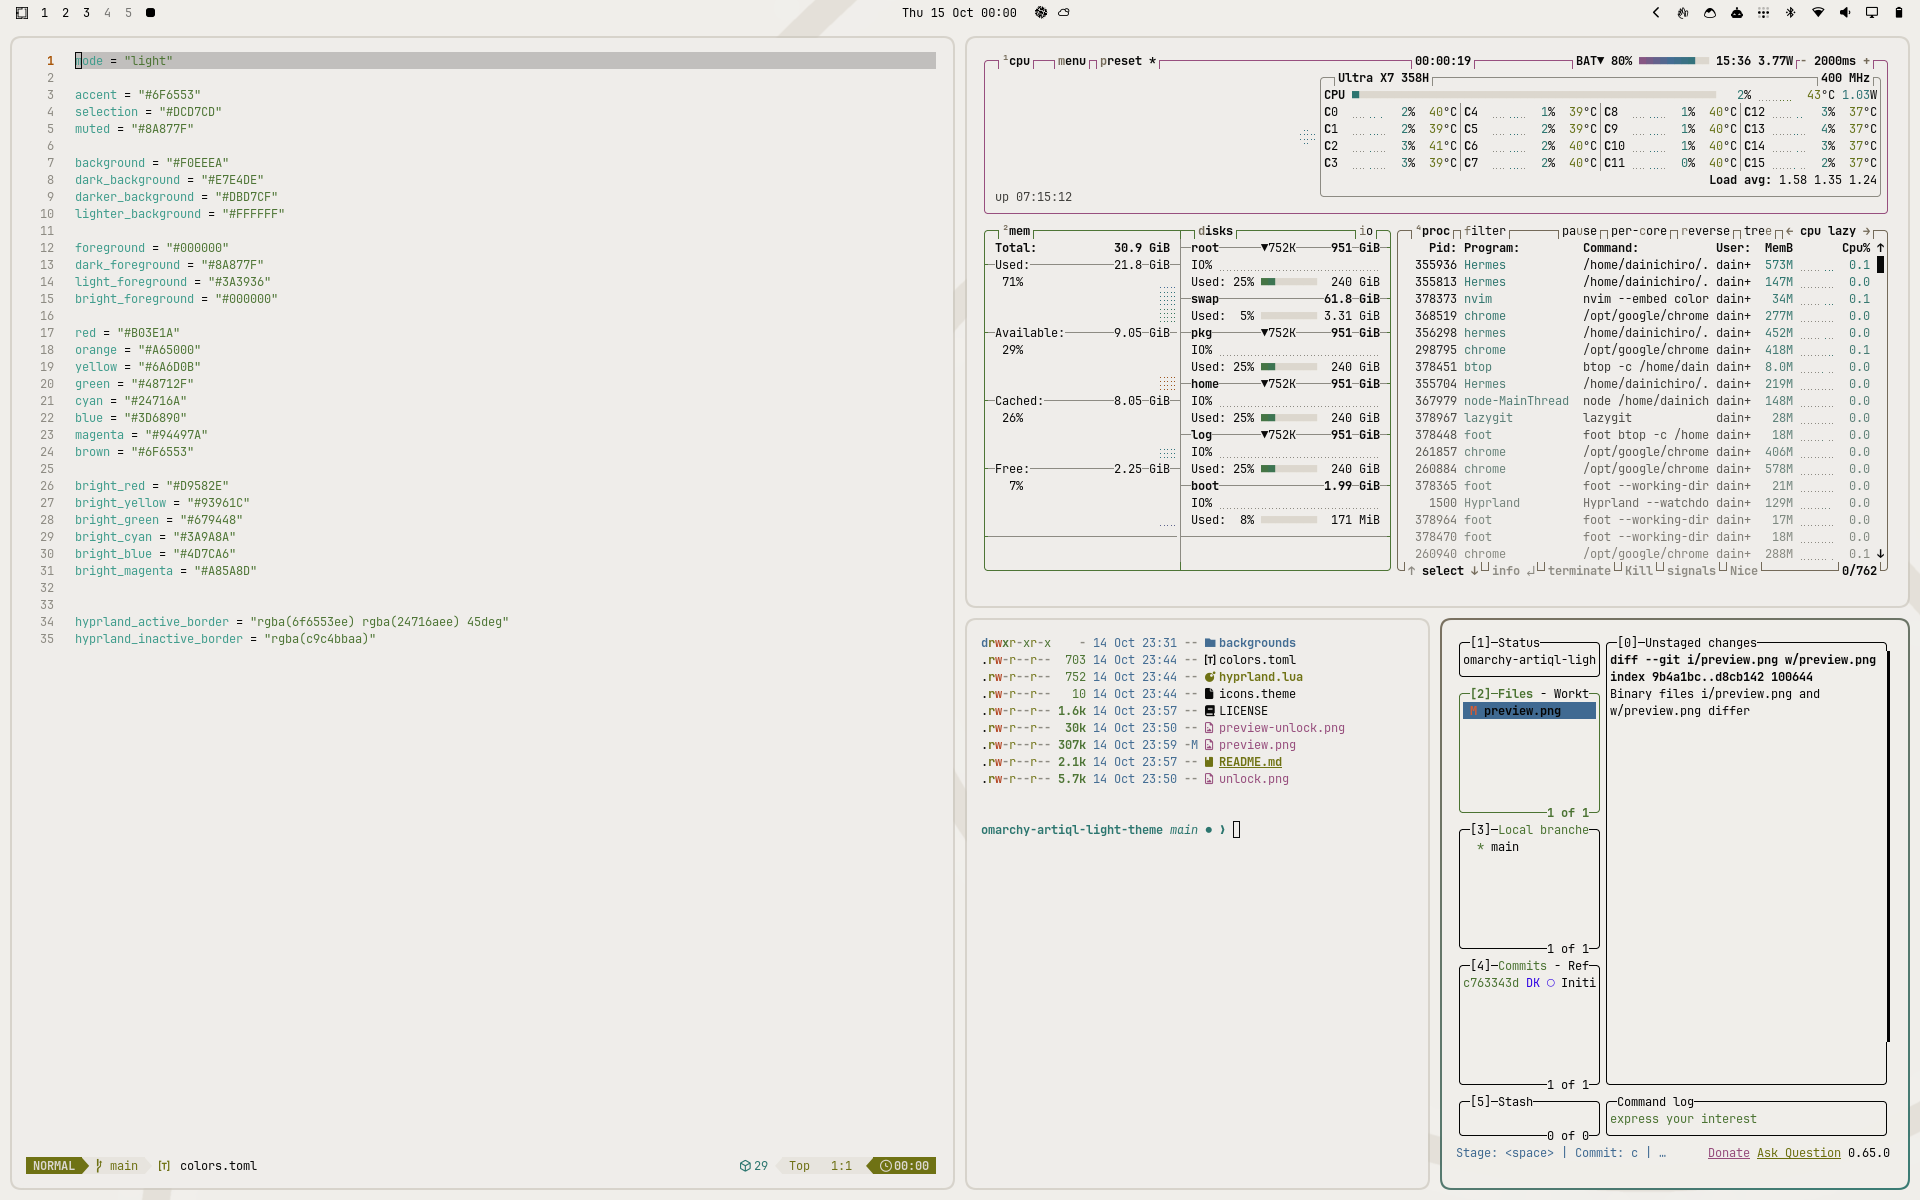
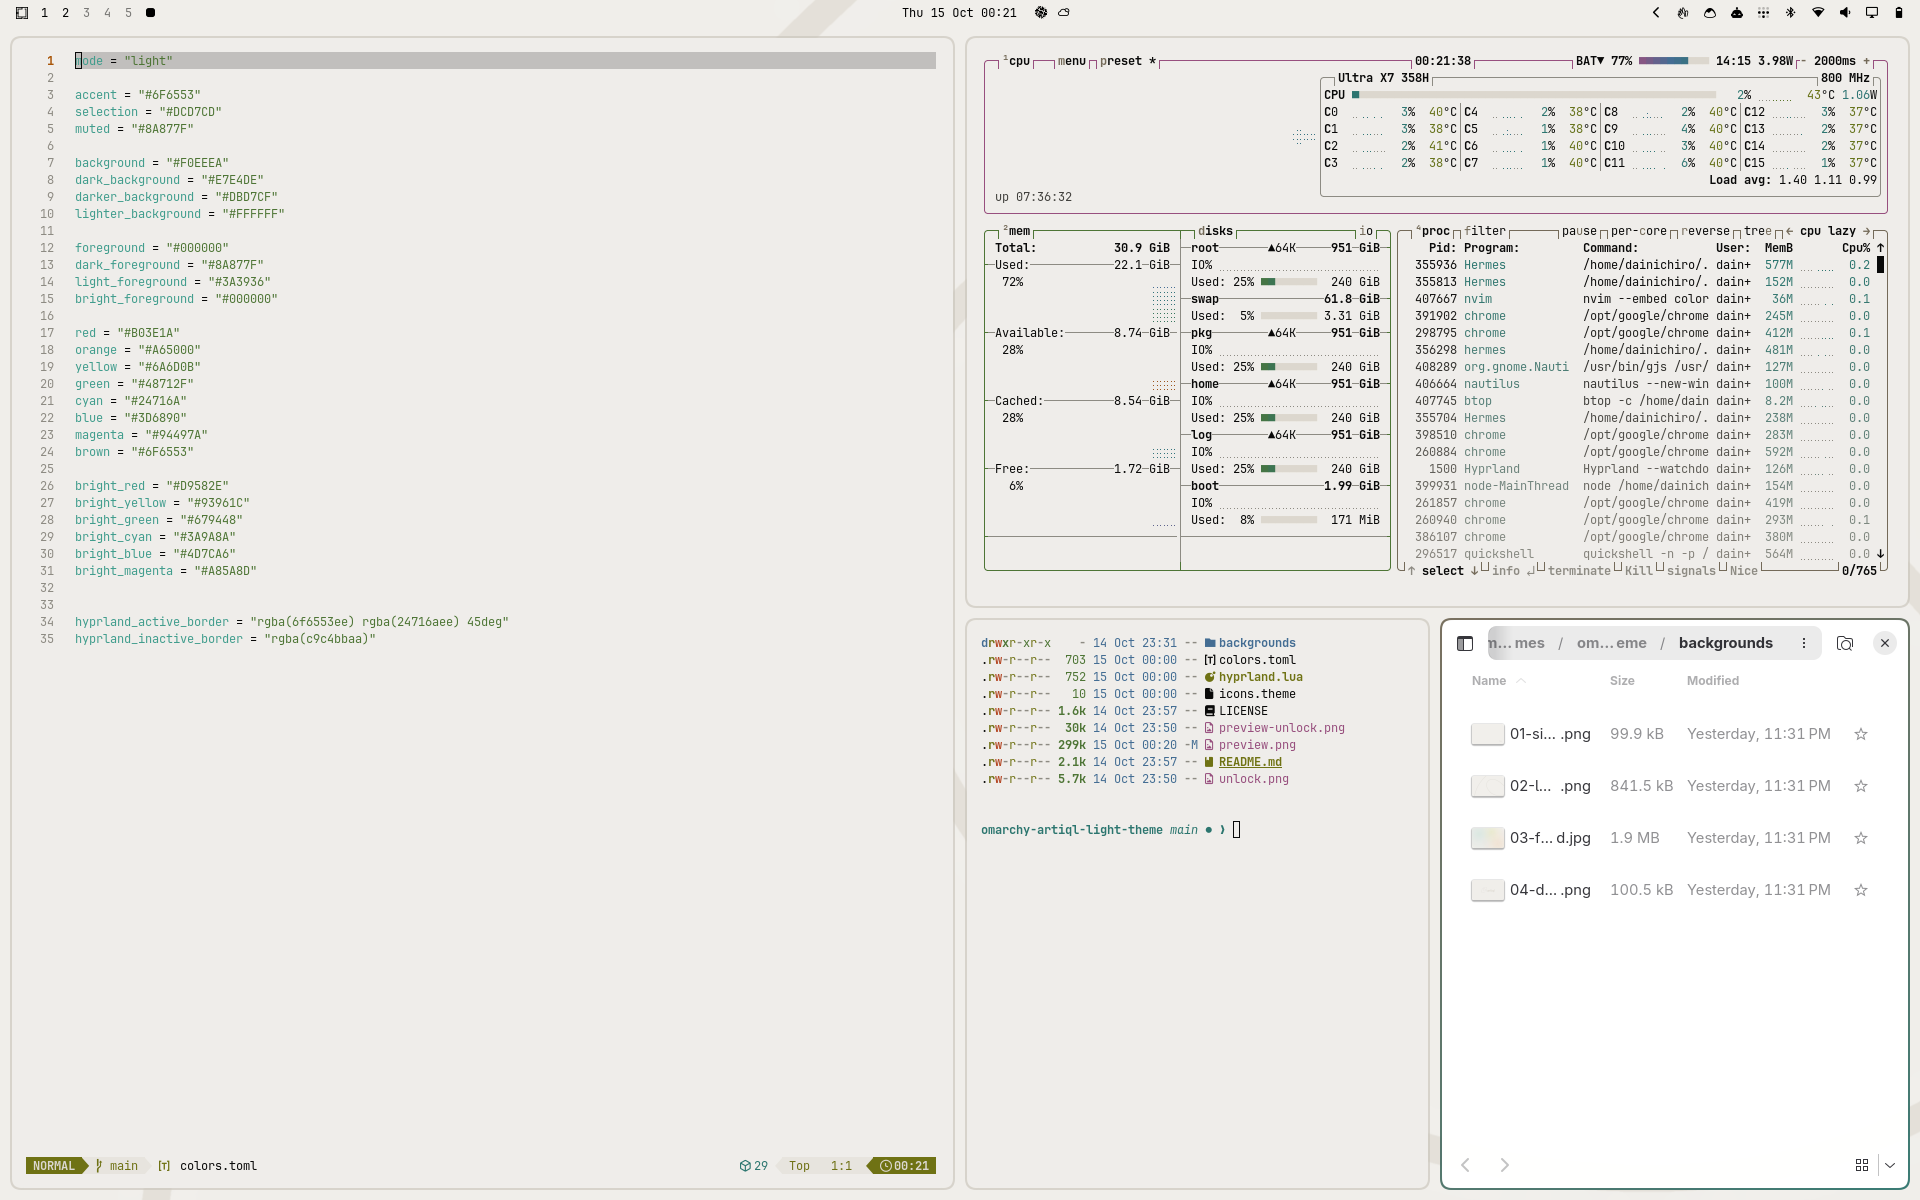
Files in preview, clone-and-link install, license holder

diff --git a/README.md b/README.md
@@ -6,30 +6,36 @@ Paper-white, quiet and warm. A light theme for [Omarchy](https://omarchy.org).
 
 ## Install
 
+Clone and link it, so the whole theme loads — including the rounded window
+corners in [`hyprland.lua`](hyprland.lua):
+
+```bash
+git clone https://github.com/dainichiro/omarchy-artiql-light-theme.git ~/.local/share/omarchy-themes/artiql-light
+ln -sT ~/.local/share/omarchy-themes/artiql-light ~/.config/omarchy/themes/artiql-light
+omarchy theme set artiql-light
+```
+
+Update later with `git -C ~/.local/share/omarchy-themes/artiql-light pull`.
+
+<details>
+<summary>Colours only</summary>
+
 ```bash
 omarchy theme install https://github.com/dainichiro/omarchy-artiql-light-theme
 ```
 
+Omarchy skips every `.lua` in a theme installed this way, so windows keep
+their square corners. Everything else — colours, backgrounds, unlock screen —
+is the same.
+
+</details>
+
 A dark counterpart is available as
 [Artiql](https://github.com/dainichiro/omarchy-artiql-theme).
 
-### Rounded corners
+### Window corners
 
-The theme is designed with softly rounded windows. Omarchy does not load Lua
-from themes installed with `omarchy theme install`, so the bundled
-[`hyprland.lua`](hyprland.lua) is skipped. To get the intended corners, add this
-to `~/.config/hypr/looknfeel.lua`:
-
-```lua
-hl.config({
-  decoration = {
-    rounding = 8,
-    rounding_power = 3,
-  },
-})
-```
-
-A restrained radius keeps edges crisp; `rounding_power = 3` eases the straight
+`rounding = 8` keeps edges crisp; `rounding_power = 3` eases each straight
 edge into the curve instead of meeting a circular arc.
 
 ### Boot unlock screen
